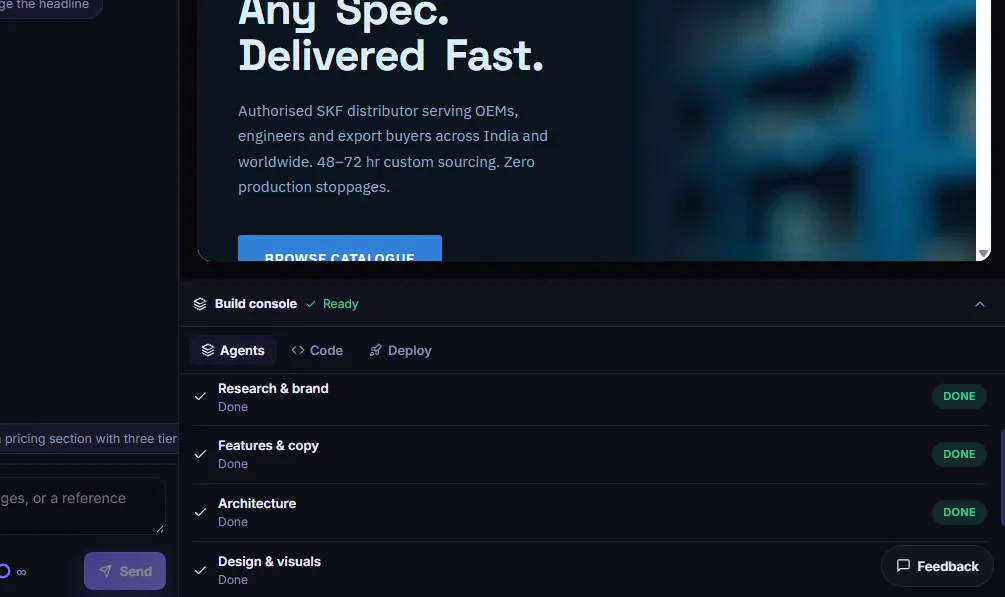
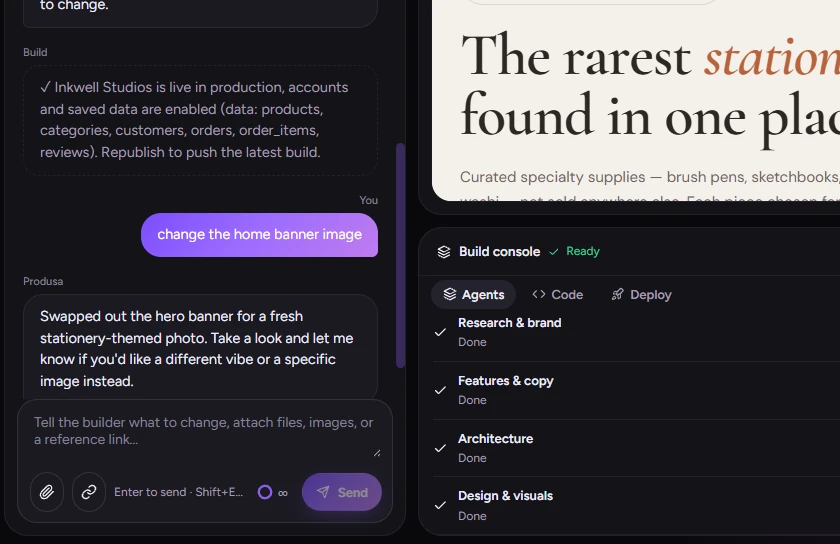
Produsa: replace the studio chat, agents-done, and feedback-board screenshots with current product captures; update dimensions, alt text, and fix figure numbering

diff --git a/produsa.html b/produsa.html
@@ -147,10 +147,10 @@
 
         <figure class="bleed">
           <div class="media">
-            <img src="/assets/media/produsa-feedback-board.webp" width="1462" height="810" loading="lazy" decoding="async"
-                 alt="The feedback board inside Produsa. Five posts, two of them reporting the build stuck at 92 percent, one asking for a website preview in the studio.">
+            <img src="/assets/media/produsa-feedback-board.webp" width="781" height="730" loading="lazy" decoding="async"
+                 alt="The feedback board inside Produsa: a form to post a feature idea, bug or general note, with the top posts below. One asks for a website preview in the studio; one reports the build hanging at 92 percent.">
           </div>
-          <figcaption data-fig="02">The feedback board. Two of these posts are the 92% bug.</figcaption>
+          <figcaption data-fig="02">The feedback board. One post is the build hanging at 92%.</figcaption>
         </figure>
       </section>
 
@@ -178,7 +178,7 @@
               </ul>
             </div>
           </div>
-          <figcaption data-fig="02">Five agents, one after another. Each checks its own work before it hands off, so a weak step gets caught and fixed instead of shipped.</figcaption>
+          <figcaption data-fig="03">Five agents, one after another. Each checks its own work before it hands off, so a weak step gets caught and fixed instead of shipped.</figcaption>
         </figure>
         <p>Owners can share their old website as a reference.</p>
       </section>
@@ -201,7 +201,7 @@
                      width="720" height="1280" muted loop playsinline preload="metadata" data-autoplay
                      aria-label="A WhatsApp chat with Produsa. The owner asks for a website for a silver jewellery brand, answers six questions, and a finished site comes back."></video>
             </div>
-            <figcaption data-fig="03">A few questions in a chat, then a prototype.</figcaption>
+            <figcaption data-fig="04">A few questions in a chat, then a prototype.</figcaption>
           </figure>
         </article>
 
@@ -221,10 +221,10 @@
           <p>An active agent panel shows which agent is working (research, art direction, content, SEO or build), and a version history below the preview lists every earlier version of the site. Watching the site take shape is what builds the trust: owners see a team of agents working for them, and we designed for that feeling on purpose.</p>
           <figure>
             <div class="media">
-              <img src="/assets/media/produsa-agents.webp" width="1005" height="597" loading="lazy" decoding="async"
+              <img src="/assets/media/produsa-agents.webp" width="840" height="544" loading="lazy" decoding="async"
                    alt="The build console under the site preview. Research and brand, Features and copy, Architecture, and Design and visuals are each marked done.">
             </div>
-            <figcaption data-fig="04">Four agents, each done, over the site they just built.</figcaption>
+            <figcaption data-fig="05">Four agents, each done, over the site they just built.</figcaption>
           </figure>
         </article>
 
@@ -241,10 +241,10 @@
           <p class="why" style="margin-top:28px;"><b>Why:</b> The first version confirmed changes as soon as the agent made the request, before checking the page. That's what told the bakery owner her photos were up three times. Owners who can't judge the site themselves stopped trusting the chat after one false "done". When a reader can't check anything for themselves, every claim gets rated on the last one that held.</p>
           <figure>
             <div class="media">
-              <img src="/assets/media/produsa-chat.webp" width="967" height="826" loading="lazy" decoding="async"
-                   alt="The Produsa chat. One card reads build complete at 100 percent, a second is updating the site at 47 percent with each step listed as it finishes.">
+              <img src="/assets/media/produsa-chat.webp" width="1078" height="858" loading="lazy" decoding="async"
+                   alt="The Produsa chat with the build in progress. The orchestrator card shows about 20 percent, roughly 16 minutes, and lists each step as it finishes: build started, polishing details, tightening the brief, brief locked.">
             </div>
-            <figcaption data-fig="05">Every step named, nothing confirmed before it is live.</figcaption>
+            <figcaption data-fig="06">Every step named, nothing confirmed before it is live.</figcaption>
           </figure>
         </article>
 
